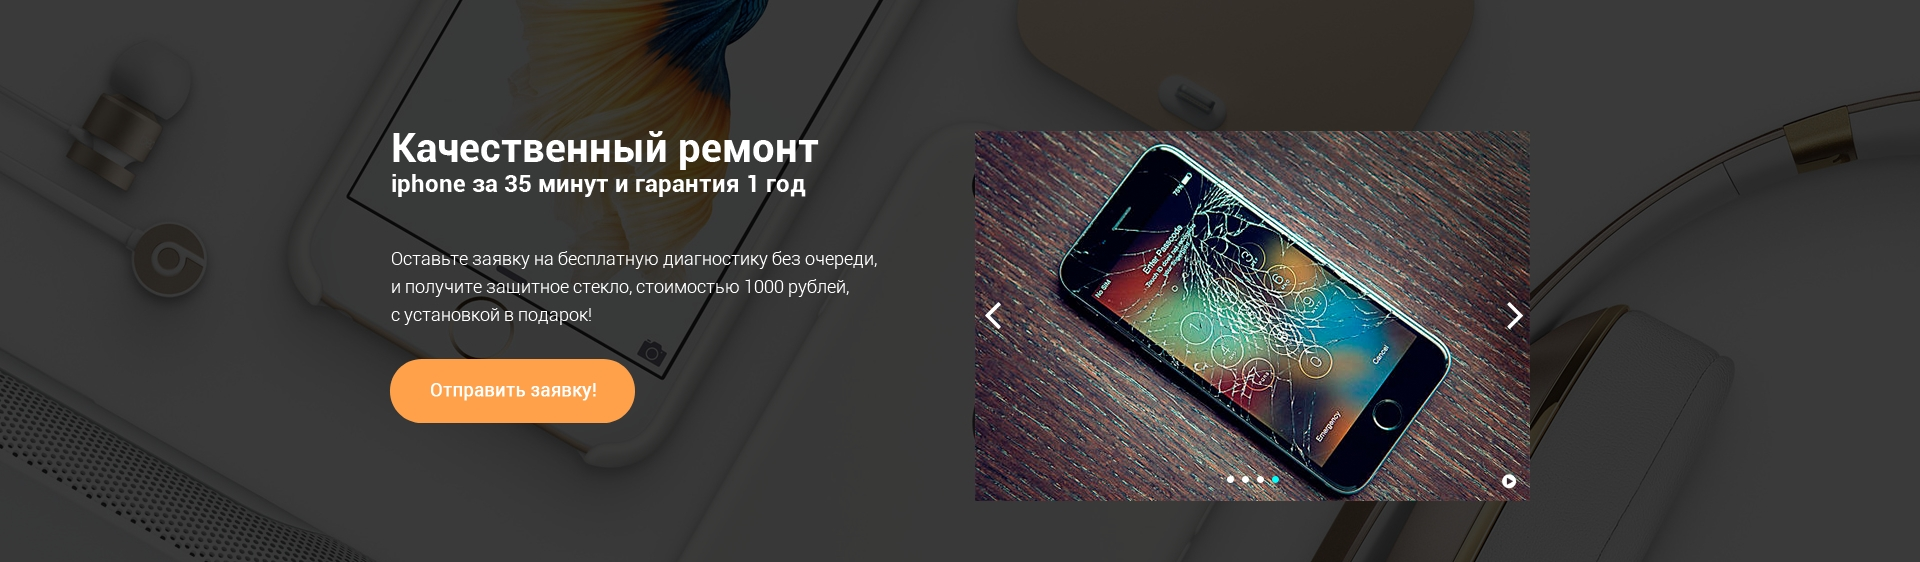
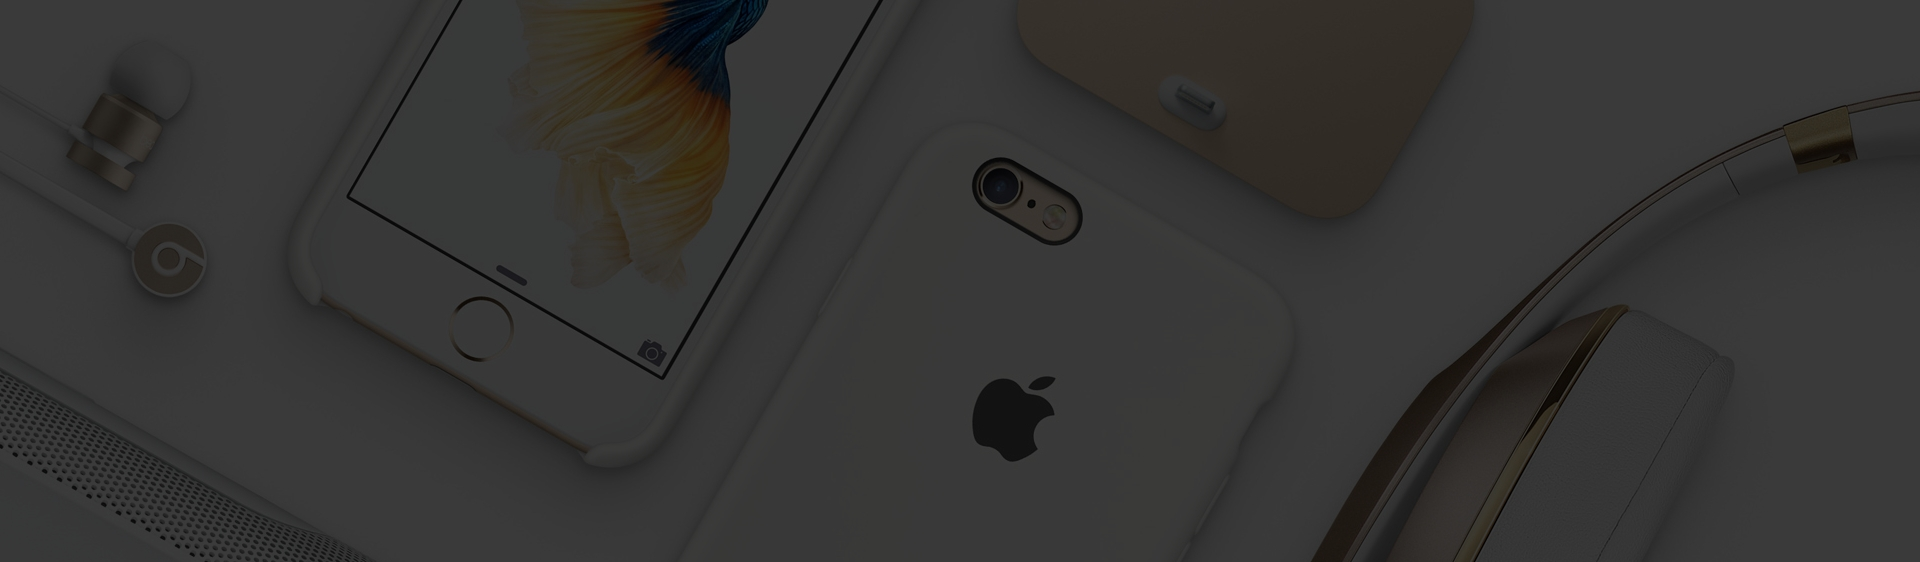
not all clear and right. It'is warning compilation

diff --git a/src/App.js b/src/App.js
@@ -6,24 +6,51 @@ import Row from 'react-bootstrap/lib/Row';
 import Col from 'react-bootstrap/lib/Col';
 import styled from 'styled-components';
 
+import Header from './components/Header';
+import Menu from './components/Menu';
+import Main from './components/Main';
+
+const url = process.env.PUBLIC_URL+"/img/bg.jpg";
+
+const HeaderWrapper = styled.header`
+    width:100%;
+    hight:49px;
+    opacity:0.8;
+`
+const MenuWrapper= styled.header`
+    height:89px;
+    padding-top:20px;
+
+`
+const MainWrapper=styled.main`
+    height:600px;
+    padding-top:130px;
+    background: url(${url}) no-repeat;
+    background-size:cover;
+
+`
 class App extends Component {
   render() {
     return (
-      <div className="wrapper">
-      <SayFullName name = "Имя" surname = "Фамилия" link = "vk.com"/>
-      <SayFullName name = "Буратино" surname = "Карлович" link="#"/>
-      <SayFullName name = "Компонент" surname = "Приложеньев" link="ok.ru" />
+      <div className="App">
+        <HeaderWrapper>
+          <Grid>
+            <Header />
+          </Grid>
+        </HeaderWrapper>
+        <MenuWrapper>
+          <Grid>
+            <Menu />
+          </Grid>
+        </MenuWrapper>
+        <MainWrapper>
+          <Grid>
+            <Main />
+          </Grid>
+        </MainWrapper>
       </div>
     );
   }
 }
 
-function SayFullName(props){
-  return (
-    <div>
-    <h1>Мое имя {props.name}, Фамилия {props.surname} </h1>
-    <a href={props.link}>Ссылка на мой профиль</a>
-    </div>
-    )
-}
 export default App;

diff --git a/src/components/Main.js b/src/components/Main.js
@@ -1,0 +1,70 @@
+import React, { Component } from 'react';
+
+import Grid from 'react-bootstrap/lib/Grid';
+import Row from 'react-bootstrap/lib/Row';
+import Col from 'react-bootstrap/lib/Col';
+import styled from 'styled-components';
+
+const Repair=styled.div`
+	width: 427px;
+	color: #ffffff;
+	font-weight: 700;
+	line-height: 50px;
+	font-size: 40px;
+
+	span{
+	display:block;
+	font-size: 24px;
+	line-height: 30px;
+
+	}
+`
+const LightText = styled.div`
+	width: 486px;
+	height: 74px;
+	color: #ffffff;
+	font-size: 18px;
+	font-weight: 300;
+	line-height: 28px;
+	margin-top: 54px;
+
+
+`
+const CallButton = styled.button`
+	width: 247px;
+	height: 67px;
+	background-color: #ffa14b;
+	border-radius:30px;
+	margin-top:32px;
+	color: #ffffff;
+	font-size: 18px;
+	font-weight: bold;
+	line-height: 24px;
+
+
+`
+
+class Main extends React.Component {
+	render() {
+		return (
+			<Row>
+				<Col lg={3}>
+					<Repair>
+						Качественный ремонт
+						<span>iphone за 35 минут и гарантия 1 год</span>
+					</Repair>
+					<LightText>
+						Оставьте заявку на бесплатную диагностику без очереди,
+						и получите защитное стекло, стоимостью 1000 рублей,
+						с установкой в подарок!
+					</LightText>
+					<CallButton>Отправить заявку
+					</CallButton>
+				</Col>
+				<Col lg={3} lgOffse={1}>
+				</Col>
+			</Row>
+			)
+	}
+}
+export default Main

diff --git a/src/components/Menu.js b/src/components/Menu.js
@@ -1,0 +1,74 @@
+import React, { Component } from 'react';
+
+import Row from 'react-bootstrap/lib/Row';
+import Col from 'react-bootstrap/lib/Col';
+import styled from 'styled-components';
+
+const Repair = styled.div`
+width: 248px;
+height: 41px;
+color: #464646;
+font-size: 18px;
+font-weight: 300;
+line-height: 22px;
+
+`
+const WorkTime = styled.div`
+	width: 181px;
+	height: 38px;
+	color: #2a2a2a;
+	font-size: 12px;
+	font-weight: 300;
+	line-height: 24px;
+	span {
+		color: #464646;
+		font-size: 21px;
+		font-weight: 500;
+	}
+
+`
+class Adress extends React.Component {
+	render() {
+		return (
+			<span> {this.props.addr} </span>
+			)
+	}
+
+}
+
+const CallButton= styled.button`
+width: 176px;
+height: 48px;
+border-radius:30px;
+background-color: #3fc7db;
+
+`
+class Menu extends React.Component {
+	render(){
+		return (
+			<Row>
+				<Col lg={3}>
+					<Repair> Ремонт айфонов в сервисном 
+							 центре и на выезде
+					</Repair>
+
+				</Col>
+				<Col lg={3} lgOffset={3}>
+					<WorkTime> Пн-пт с 10 до 20, сб,вс с 11 до 18
+						<Adress addr="Ленинская, 301" />
+					</WorkTime>
+				</Col>
+				<Col lg={3}>
+					<WorkTime> Звонки принимаются 24 часа
+						<Adress addr=" 8 (846) 922 55 44 " />
+					</WorkTime>
+				</Col>
+				<Col lg={3}>
+					<CallButton> Заказать звонок </CallButton>
+				</Col>
+
+			</Row>
+			)
+	}
+}
+export default Menu 

diff --git a/src/components/Header.js b/src/components/Header.js
@@ -1,0 +1,40 @@
+import React, { Component } from 'react';
+
+import Row from 'react-bootstrap/lib/Row';
+import Col from 'react-bootstrap/lib/Col';
+import styled from 'styled-components';
+import Link from './Link';
+
+const List = styled.ul`
+	display: flex;
+	justify-content: space-beetween;
+	aligh-items: center;
+	padding: 0;
+	height: 49px
+	background-color: #242424;
+`
+
+class Header extends React.Component {
+	render() {
+		return(
+			<Row>
+				<Col lg={12}>
+					<nav>
+					<List>
+						<Link link="#" text="Вызов мастера" />
+						<Link link="#" text="Наши преимущества"/>
+						<Link link="#" text="Прайс на волшебство и чары"/>
+						<Link link="#" text="Схема работы"/>
+						<Link link="#" text="Отзывы клиентов"/>
+
+					</List>
+
+					</nav>
+
+				</Col>
+			</Row>
+
+			)
+	}
+} 
+export default Header

diff --git a/src/components/Link.js b/src/components/Link.js
@@ -1,0 +1,27 @@
+import React, { Component } from 'react';
+import styled from 'styled-components';
+
+const StyleLink = styled.a`
+	color: ${props => props.active ? 'pink':'#fff'};
+	font-size: 14px;
+	font-weight:300px;
+	line-height: 24px;
+	padding-right:33px;
+	border-right: 1px dotted #fff;
+
+	&:hover {
+		color: #8d8d8d;
+		text-decoration: none;
+	}
+	&:last-child{
+		border-right:none;
+	}
+`
+class Link extends React.Component {
+	render(){
+		return( 
+			<StyleLink  href={this.props.link}>{this.props.text}</StyleLink>
+		)
+	}
+}
+export default Link	
